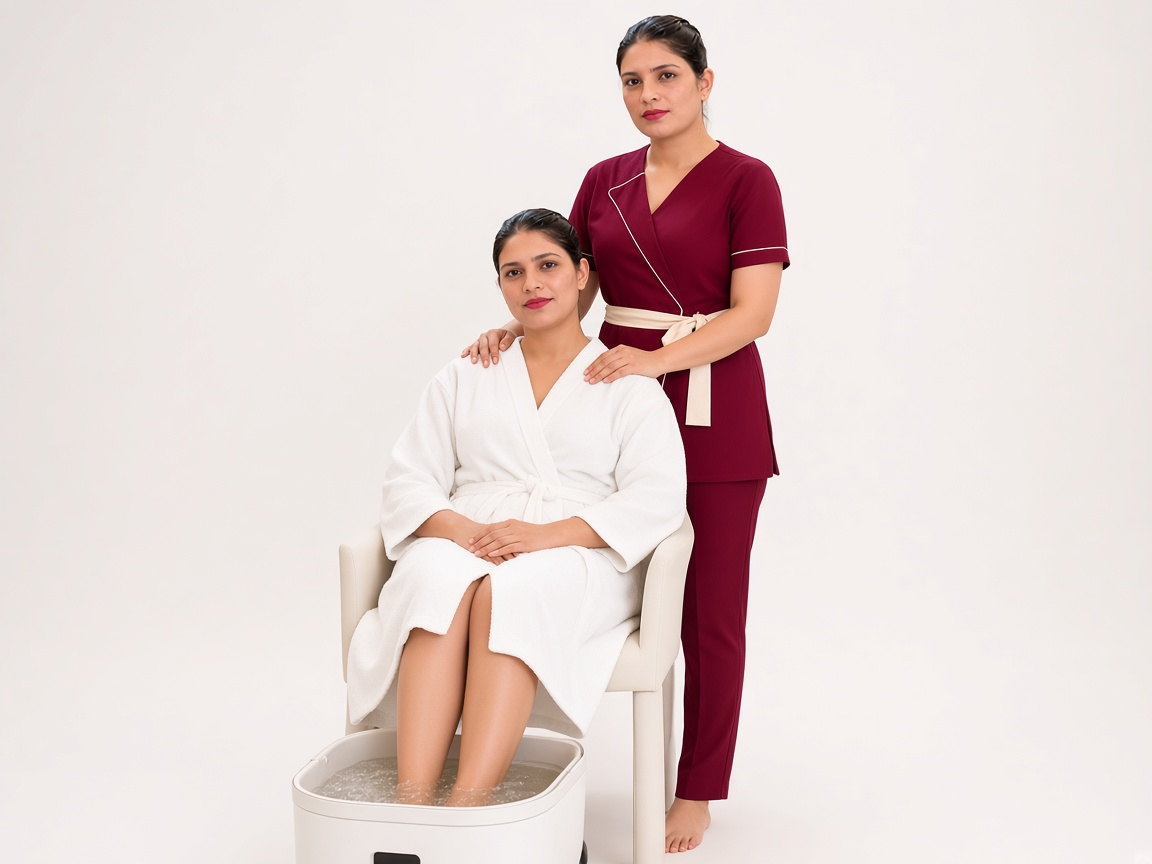
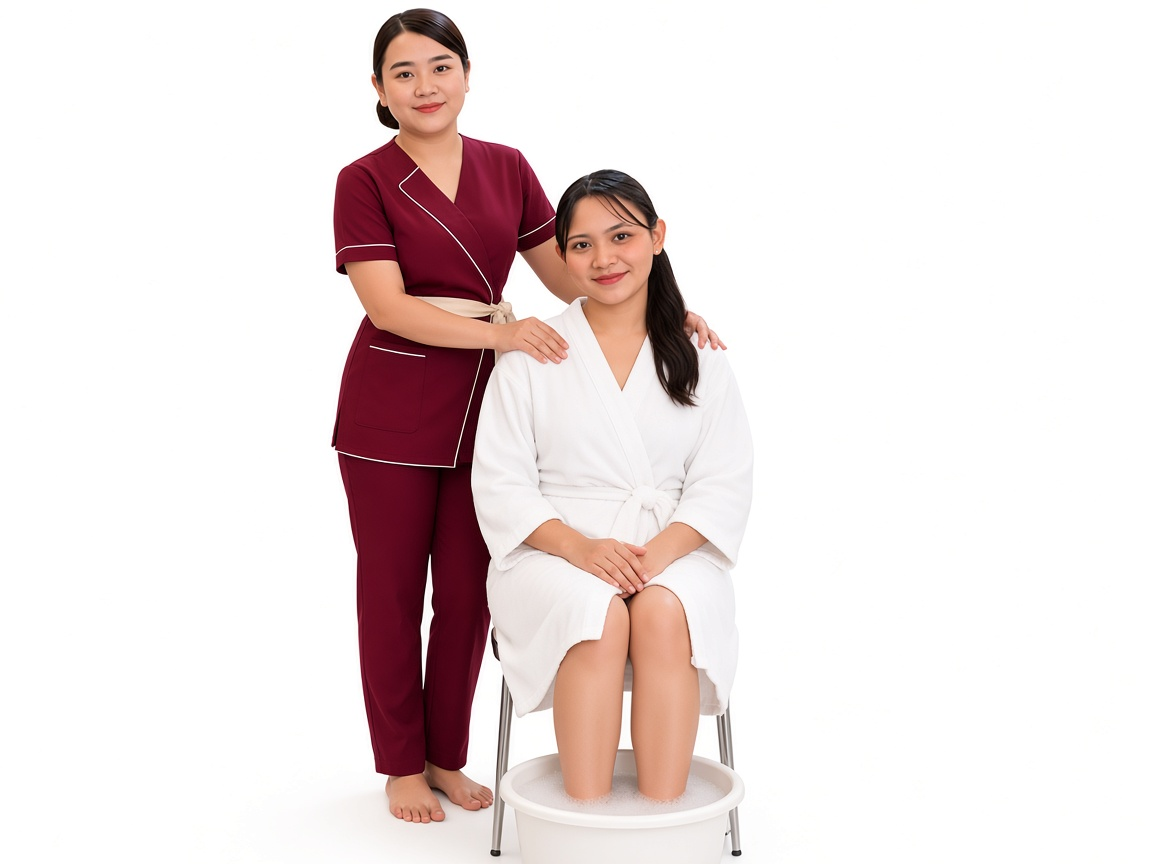
added changes

diff --git a/src/lib/massage-data.ts b/src/lib/massage-data.ts
@@ -41,7 +41,7 @@ export const massages: Massage[] = [
     name: 'Jacuzzi Massage',
     short: 'Warm water and a calming massage.',
     description: 'A warm water soak paired with a soothing neck and shoulder massage to help you fully unwind.',
-    image: '/images/massages/jacuzzi.jpg',
+    image: '/images/massages/jacuzzi-v3.jpg',
     alt: "Therapist massaging a client's shoulders while her feet are in a jacuzzi",
     highlights: ['Warm water soak', 'Neck and shoulder massage', 'Calming aromatic oils', 'Perfect for a hotel stay'],
   },
